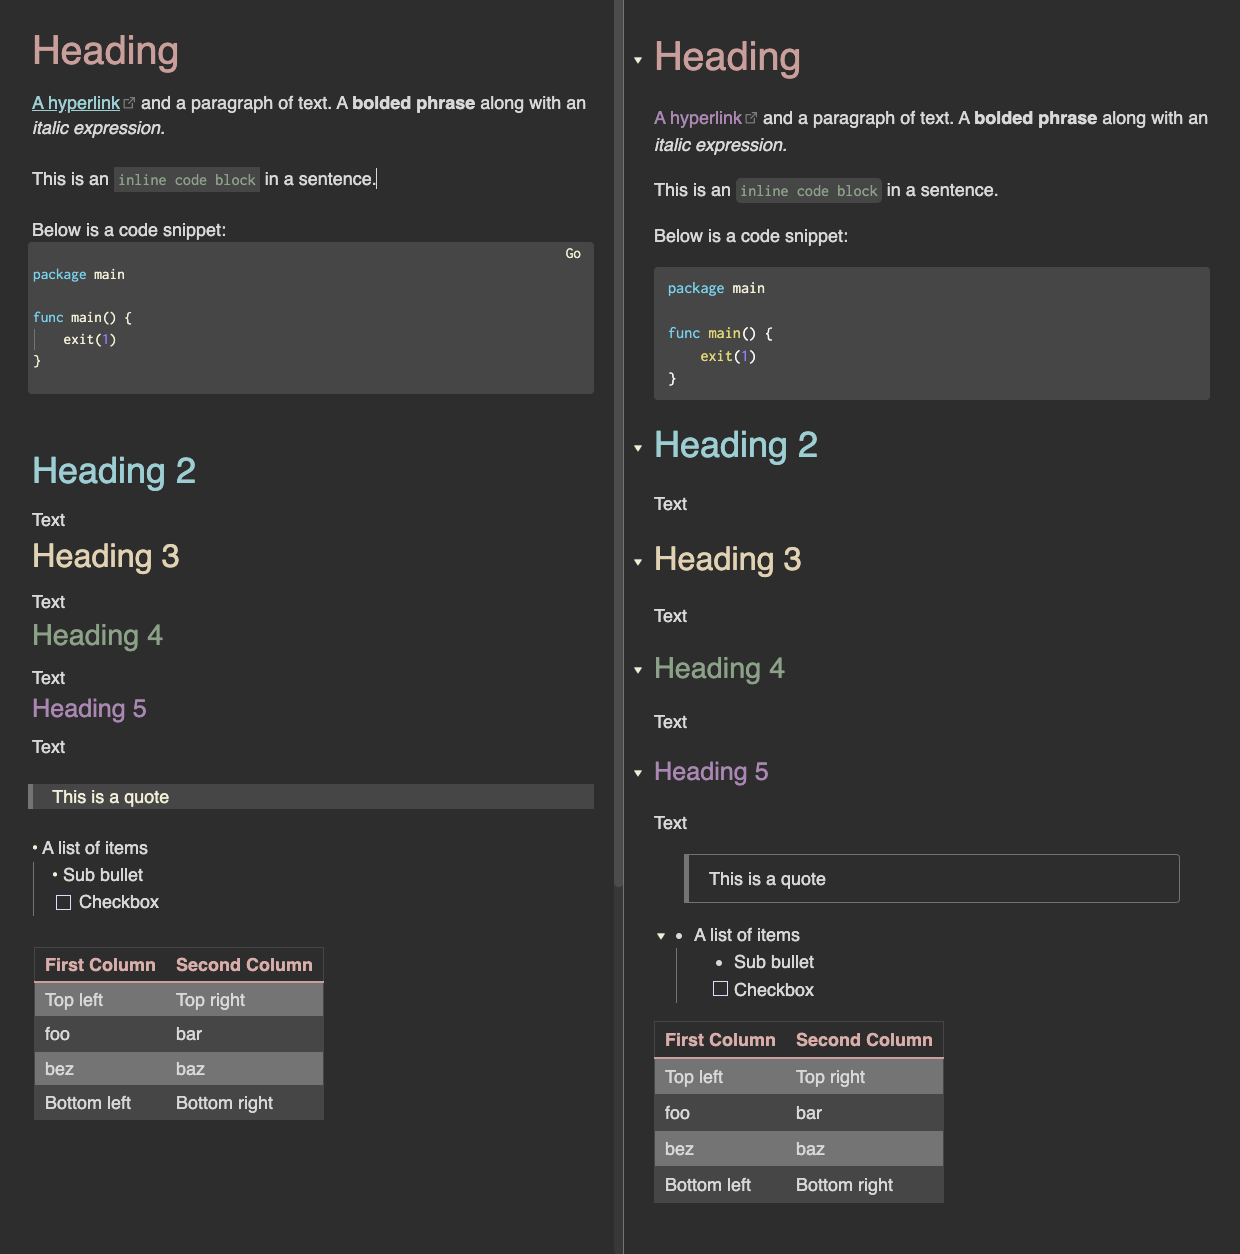
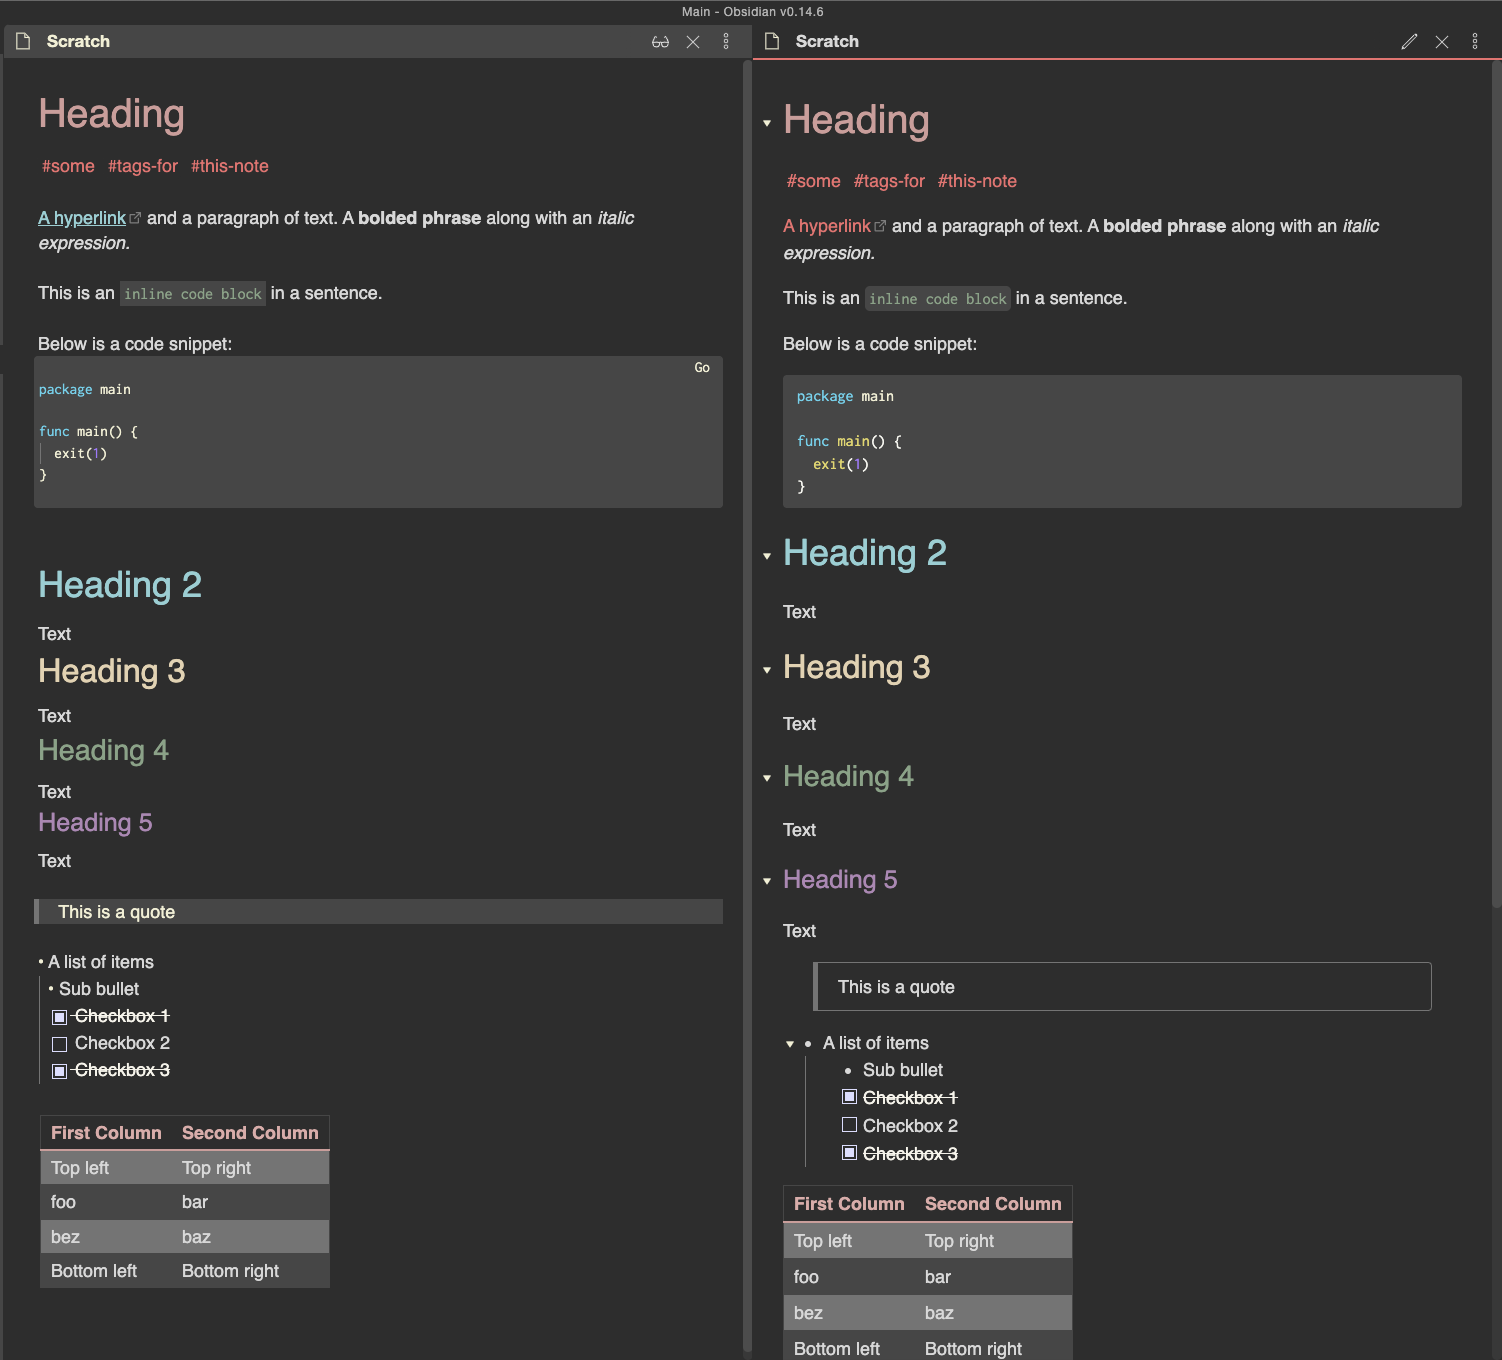
updated

Changed region(s): [[0.0, 0.0, 1.0, 1.0], [0.7968, 0.0933, 0.95, 0.1244]]

diff --git a/obsidian.css b/obsidian.css
@@ -34,7 +34,7 @@
     --background-primary:         var(--black-dim);
     --background-primary-alt:     var(--black-dim);
     --background-secondary:       var(--black);
-    --background-secondary-alt:   var(--black-bright);
+    --background-secondary-alt:   var(--black-dim);
     --text-normal:                var(--white-dim);
     --text-faint:                 var(--white-bright);
     --text-muted:                 var(--white);
@@ -45,13 +45,13 @@
     --text-title-h5:              var(--magenta);
     --text-title-h6:              var(--cyan);
     --text-link:                  var(--blue);
-    --text-a:                     var(--magenta);
-    --text-a-hover:               var(--cyan-bright);
+    --text-a:                     var(--red-dim);
+    --text-a-hover:               var(--red-bright);
     --text-mark:                  rgba(136, 192, 208, 0.3); /* frost1 */
     --pre-code:                   var(--black);
     --text-highlight-bg:          var(--green);
     --text-highlight-bg-active:   var(--green);
-    --interactive-accent:         var(--blue);
+    --interactive-accent:         var(--red-dim);
     --interactive-before:         var(--blue-dim);
     --background-modifier-border: var(--black-bright);
     --text-accent:                var(--cyan);
@@ -60,7 +60,7 @@
     --code-block:                 var(--white);
     --vim-cursor:                 var(--cyan);
     --text-selection:             var(--blue-dim);
-    --text-tag:                   var(--white-dim);
+    --text-tag:                   var(--red-dim);
     --task-checkbox:              var(--blue);
     --table-header:               var(--black-dim);
     --table-row-even:             var(--black);

diff --git a/README.md b/README.md
@@ -1,8 +1,9 @@
-# Zenburn for Obsidian
+# Obsidian Zenburn
 
 ![](screen.png)
 
-The classic Zenburn vim theme for Obsidian. In dark mode only.
+Zenburn, the classic low-contrast vim theme, now available for Obsidian. Available in dark mode only.
 
-https://kippura.org/zenburnpage/
-https://github.com/jnurmine/Zenburn
+## Installation
+- Options > Appearance > Open Themes Folder
+- Drop the `obsidian.css` in there
